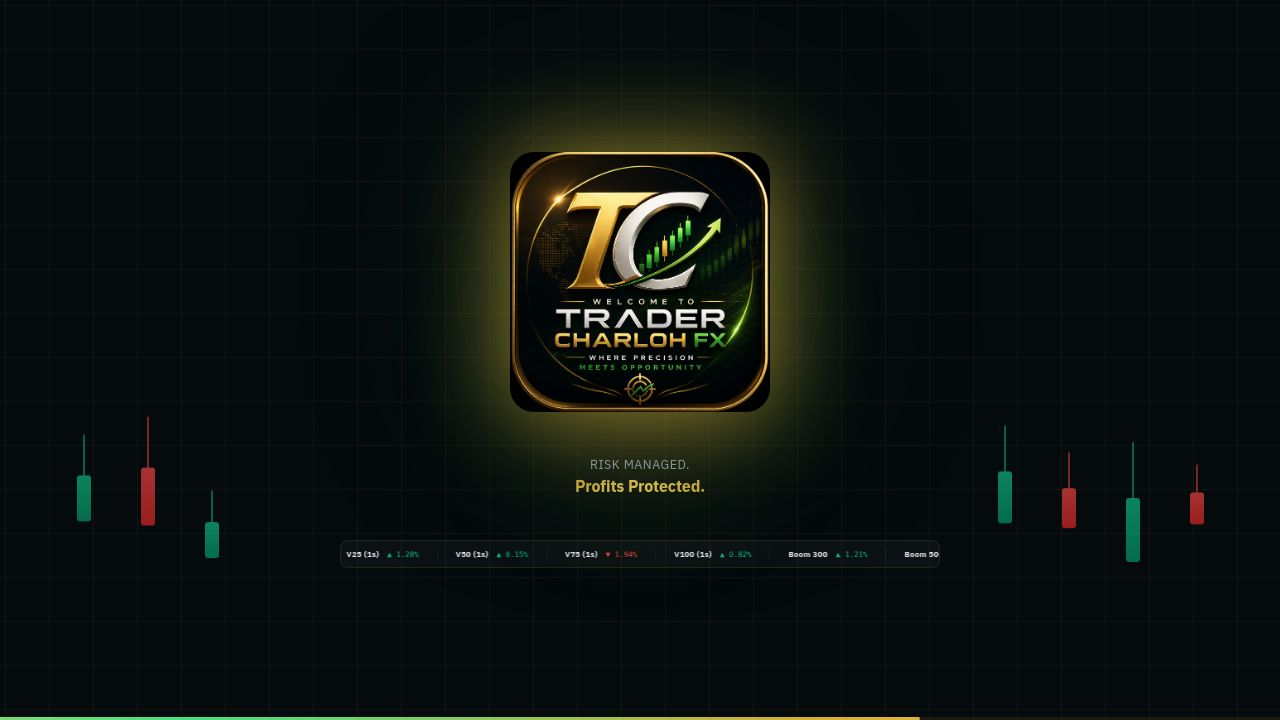
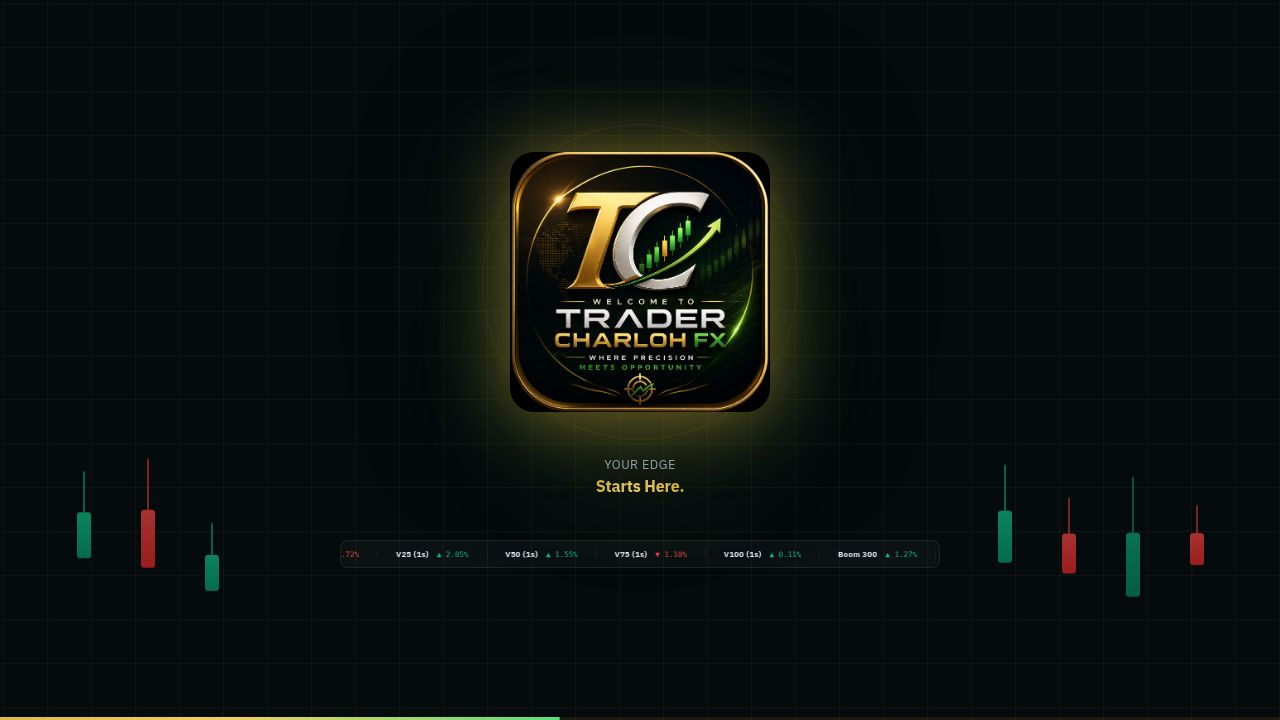
Push AI Signals panel close fix + Destroyer bot journal logging, deploy to production
Task #3: commit/push/deploy work that main agent's sandbox couldn't perform
directly (git push and deploy are blocked in the main-agent sandbox).

Changes (already implemented and validated by main agent, this task only
pushed and deployed them):
1. AiSignalOrb.tsx: AI Signals orb panel now closes via setOpen(false) when
   "Execute Trades" runs, alongside the existing setShowRunConfig(false).
2. Over_Destroyer_Bot.xml / Under_Destroyer_Bot.xml: added Journal-tab
   notify messages fired before each purchase (primary buy + loss-recovery
   buy), printing direction/barrier, a new "Symbol Label" variable, entry
   point, and last digit.
3. bot-patch.ts: added dest_symlabel_init textValue patch for both
   over-destroyer/under-destroyer so the printed Symbol Label reflects the
   live signal's volatility index name.

Work done in this task:
- Found changes were already committed locally as part of the pre-task
  checkpoint (commit 9b02bf7), no new commit needed.
- Force-pushed to GitHub (developercharloh/Deriv-site-new-api-charloh,
  main branch): e7e4501..9b02bf7.
- Built artifacts/deriv-site for production (npm run build), rebuilt
  .vercel/output/static from dist/, and deployed via
  `vercel deploy --prebuilt --prod` per the established recipe in
  .agents/memory/vercel-deploy-approach.md.
- Verified https://www.mrcharlohfx.site returns HTTP 200 after deploy.

No deviations from the task plan. Did not touch the failing api-server
[…]

diff --git a/artifacts/deriv-site/.vercel/output/static/index.html b/artifacts/deriv-site/.vercel/output/static/index.html
@@ -63,7 +63,7 @@
                 });
             })();
         </script>
-    <link rel="icon" href="/favicon.svg" type="image/svg+xml"><script defer src="/static/js/lib-react.68119ef6.js"></script><script defer src="/static/js/lib-router.f0602816.js"></script><script defer src="/static/js/225.8d6cbef9.js"></script><script defer src="/static/js/index.6e674c7c.js"></script><link href="/static/css/225.94640a0a.css" rel="stylesheet"><link href="/static/css/index.efd7c51d.css" rel="stylesheet"></head>
+    <link rel="icon" href="/favicon.svg" type="image/svg+xml"><script defer src="/static/js/lib-react.68119ef6.js"></script><script defer src="/static/js/lib-router.f0602816.js"></script><script defer src="/static/js/225.8d6cbef9.js"></script><script defer src="/static/js/index.6fb0ab7b.js"></script><link href="/static/css/225.94640a0a.css" rel="stylesheet"><link href="/static/css/index.efd7c51d.css" rel="stylesheet"></head>
 
     <body class="body theme theme--light">
         <!-- Google Tag Manager (noscript) -->

diff --git a/artifacts/deriv-site/.vercel/output/static/static/js/async/387.6ff18165.js b/artifacts/deriv-site/.vercel/output/static/static/js/async/387.6ff18165.js
@@ -1,0 +1,1 @@
+"use strict";(self.webpackChunk_workspace_deriv_site=self.webpackChunk_workspace_deriv_site||[]).push([["387"],{32318(e,t,n){n.d(t,{DT:()=>a,XC:()=>r,pZ:()=>m});let l={"matches-signal":"/bots/Matches_Signal_Bot.xml","differ-v2":"/bots/BINARYTOOL@_DIFFER_V2.0_(1)_(1)_1765711647662.xml","even-odd-scanner":"/bots/BINARYTOOL@EVEN_ODD_THUNDER_AI_PRO_BOT_1765711647662.xml","over-under-signal":"/bots/OverUnder_Signal_Bot.xml","elite-entry-scanner":"/bots/Elite_Entry_Scanner_Bot.xml","over-under-ai-signals":"/bots/Over_Under_AI_Signals_Bot.xml","over-destroyer":"/bots/Over_Destroyer_Bot.xml","under-destroyer":"/bots/Under_Destroyer_Bot.xml"};function r(e){return e.trim().toUpperCase().startsWith("UNDER")?"under-destroyer":"over-destroyer"}function a(e){let t=e.match(/\d+/);return t?parseInt(t[0],10):0}let o=new Map,u=new Map;async function i(e){let t=o.get(e);if(t)return t;let n=u.get(e);if(n)return n;let r=l[e];if(!r)throw Error(`Unknown bot id: ${e}`);let a=(async()=>{let t=await fetch(r);if(!t.ok)throw Error(`HTTP ${t.status} fetching bot XML (${r})`);let n=await t.text();return o.set(e,n),n})();u.set(e,a);try{return await a}finally{u.delete(e)}}async function m(e,t,n,l,r,o){let u=arguments.length>6&&void 0!==arguments[6]?arguments[6]:1,m=await i(e),c=function(e,t,n,l,r,o){let u=a(t.direction),i=a(t.entryPoint),m=Math.max(3,Math.min(10,Math.round(r/n)));switch(e){case"matches-signal":return[{blockId:"!BDtc{tIb5~vb#O@Ogky",numValue:u},{blockId:"Dww98I}prRuVxr_mn~}k",numValue:n},{blockId:"P@g)b:jeg|/F)mD8%X,w",numValue:n},{blockId:"t0b1vxY9xaXc@*IwT7C{",numValue:l},{blockId:"tuMdgDH=EiDY~j.b%n;]",numValue:m},{blockId:"zHWiC2`O-~qH2R`7]FaG",numValue:o},{blockId:"ep_matches_init",numValue:u}];case"differ-v2":return[{blockId:"%,Z?it?u3w,4)WTx2Hq:",numValue:n},{blockId:"/a.5Q3QDR2c)VR/XZvD-",numValue:u},{blockId:"ij(6Iu2cn[H}M;H3Y%9[",numValue:u},{blockId:"s;EQ~zMi)cPYPc-kzha`",numValue:o},{blockId:";N@3iS.2#]xK[5,E{gCO",numValue:l},{blockId:"h~GA!H78SVi}._e5N:ur",numValue:r}];case"even-odd-scanner":return[{blockId:"eo_dir_init",textValue:t.direction.trim().toUpperCase()},{blockId:"Wa]y_n3s-T4*h(bmYz+k",numValue:n},{blockId:"Z:R@MLC*=N3%meT)IuPt",numValue:r},{blockId:":Vn+w]Y.(QKzgKKENIfo",numValue:l},{blockId:"eo_ep_init_fixed",numValue:i}];case"over-under-signal":return[{blockId:"ou_dir_init",textValue:t.direction.split(" ")[0].toUpperCase()},{blockId:"ou_barrier_init",numValue:a(t.direction)},{blockId:"ou_stake_init",numValue:n},{blockId:"ou_initial_stake_init",numValue:n},{blockId:"ou_tp_init",numValue:l},{blockId:"ou_mart_level_init",numValue:m},{blockId:"ou_mart_init",numValue:o},{blockId:"ou_ep_init",numValue:a(t.entryPoint)}];case"over-under-ai-signals":{let e=a(t.direction),u=t.recoveryBarrier??e;return[{blockId:"ouai_pred1_init",numValue:e},{blockId:"ouai_pred2_init",numValue:u},{blockId:"ouai_ep_init",numValue:a(t.entryPoint)},{blockId:"ouai_stake_init",numValue:n},{blockId:"ouai_tp_init",numValue:l},{blockId:"ouai_sl_init",numValue:r},{blockId:"ouai_mart_init",numValue:o}]}case"elite-entry-scanner":{let e=a(t.direction),u=t.recoveryBarrier??e;return[{blockId:"4$5m(H*{`c4#S-)o=;aV",numValue:e},{blockId:"f;c!1^-bb9K7rQ{#3/l0",numValue:u},{blockId:"_aSBe^/).nS{bwLbiE9n",numValue:a(t.entryPoint)},{blockId:"y-?,og][*D.g)z`wz~sr",numValue:n},{blockId:"9.jN~btog59cUwf8:lPl",numValue:l},{blockId:"MpN0,W8A;joH2n#IXF@!",numValue:r},{blockId:":y8AYtv{x`8LFslg8@Pc",numValue:o}]}case"over-destroyer":{let e=a(t.direction),u=t.recoveryBarrier??e;return[{blockId:"Gg%p@Y?OHMC(yjmQxovG",numValue:e},{blockId:"b+#U5h8+OZ)rLx{!tpHW",numValue:u},{blockId:"dest_ep_init",numValue:a(t.entryPoint)},{blockId:"]~SrY@L1iu:F3H)e`G@.",numValue:n},{blockId:"p84`5MQ~#2$;K~tmMi/Z",numValue:n},{blockId:"m|-pU=u@u#bdSa{:i4`M",numValue:l},{blockId:"HhFFo1CV-bJ!l|0*]9xP",numValue:r},{blockId:"mFGMZRBBZt[SYAEOxi|F",numValue:o},{blockId:"dest_symlabel_init",textValue:t.symbolLabel}]}case"under-destroyer":{let e=a(t.direction),u=t.recoveryBarrier??e;return[{blockId:"Gg%p@Y?OHMC(yjmQxovG",numValue:e},{blockId:"b+#U5h8+OZ)rLx{!tpHW",numValue:u},{blockId:"dest_ep_init",numValue:a(t.entryPoint)},{blockId:"]~SrY@L1iu:F3H)e`G@.",numValue:n},{blockId:"p84`5MQ~#2$;K~tmMi/Z",numValue:n},{blockId:"m|-pU=u@u#bdSa{:i4`M",numValue:l},{blockId:"HhFFo1CV-bJ!l|0*]9xP",numValue:r},{blockId:"mFGMZRBBZt[SYAEOxi|F",numValue:o},{blockId:"dest_symlabel_init",textValue:t.symbolLabel}]}default:return[]}}(e,t,n,l,r,o),b=t.contractType,d=t.recoveryContractType??("DIGITUNDER"===b?"DIGITOVER":"DIGITOVER"===b?"DIGITUNDER":void 0),s=function(e,t,n,l,r,a){let o=new DOMParser().parseFromString(e,"text/xml");if(r){let e=o.getElementsByTagName("field");for(let t=0;t<e.length;t++)if("TYPE_LIST"===e[t].getAttribute("name")){e[t].textContent=r;break}}if(r||a){let e=new Set([":Nx^]Pu__xj[_w$h8*VZ","ouai_primary_buy"]),t=new Set(["zOCam5W}Z-j~)}t9XOPF","BvzdHe]!O+GD=E;c7NS6","ouai_recovery_buy"]),n=o.getElementsByTagName("block");for(let l=0;l<n.length;l++){let o,u=n[l].getAttribute("id")??"";if(e.has(u)&&r&&(o=r),t.has(u)&&a&&(o=a),!o)continue;let i=n[l].getElementsByTagName("field");for(let e=0;e<i.length;e++)"PURCHASE_LIST"===i[e].getAttribute("name")&&(i[e].textContent=o)}}let u=o.getElementsByTagName("field");for(let e=0;e<u.length;e++)if("SYMBOL_LIST"===u[e].getAttribute("name")){u[e].textContent=t;break}if("number"==typeof l&&l>=1){let e=Math.max(1,Math.min(10,Math.round(l))),t=new Set(["math_number","math_number_positive"]),n=o.getElementsByTagName("value");for(let l=0;l<n.length;l++){if("DURATION"!==n[l].getAttribute("name"))continue;let r=n[l];for(let n of["shadow","block"]){let l=r.getElementsByTagName(n);for(let n=0;n<l.length;n++){let r=l[n];if(!t.has(r.getAttribute("type")??""))continue;let a=r.getElementsByTagName("field");for(let t=0;t<a.length;t++)"NUM"===a[t].getAttribute("name")&&(a[t].textContent=String(e))}}let a=r.getElementsByTagName("block");for(let e=a.length-1;e>=0;e--){var i;null==(i=a[e].parentNode)||i.removeChild(a[e])}let u=o.createElement("block");u.setAttribute("type","math_number");let m=o.createElement("field");m.setAttribute("name","NUM"),m.textContent=String(e),u.appendChild(m),r.appendChild(u)}let r=o.getElementsByTagName("block");for(let n=0;n<r.length;n++){if("variables_set"!==r[n].getAttribute("type"))continue;let l=r[n].getElementsByTagName("field"),a=!1;for(let e=0;e<l.length;e++)if("VAR"===l[e].getAttribute("name")&&"duration"===(l[e].textContent??"").trim().toLowerCase()){a=!0;break}if(!a)continue;let o=r[n].getElementsByTagName("block");for(let n=0;n<o.length;n++){if(!t.has(o[n].getAttribute("type")??""))continue;let l=o[n].getElementsByTagName("field");for(let t=0;t<l.length;t++)"NUM"===l[t].getAttribute("name")&&(l[t].textContent=String(e));break}}}let m=o.getElementsByTagName("block");for(let e=0;e<m.length;e++){let t=m[e],l=t.getAttribute("id")??"",r=n.find(e=>e.blockId===l);if(!r)continue;let a=t.childNodes;for(let e=0;e<a.length;e++){let t=a[e];if(1!==t.nodeType||"VALUE"!==t.getAttribute("name"))continue;let n=t.getElementsByTagName("block");for(let e=0;e<n.length;e++){let t=n[e].getAttribute("type");if("math_number"===t&&void 0!==r.numValue){let t=n[e].getElementsByTagName("field");for(let e=0;e<t.length;e++)"NUM"===t[e].getAttribute("name")&&(t[e].textContent=String(r.numValue));break}if("text"===t&&void 0!==r.textValue){let t=n[e].getElementsByTagName("field");for(let e=0;e<t.length;e++)"TEXT"===t[e].getAttribute("name")&&(t[e].textContent=r.textValue);break}}break}}return o}(m,t.symbol,c,u,b,d);if(s.querySelector("parsererror"))throw Error("Bot XML parse error — check the bot file.");return s}}}]);

diff --git a/artifacts/deriv-site/.vercel/output/static/static/js/async/739.2749243a.js b/artifacts/deriv-site/.vercel/output/static/static/js/async/739.2749243a.js
@@ -1,0 +1,1 @@
+"use strict";(self.webpackChunk_workspace_deriv_site=self.webpackChunk_workspace_deriv_site||[]).push([["739"],{81726(e,s,a){a.r(s),a.d(s,{default:()=>x});var t=a(65723),n=a(22155),i=a(89158),l=a(21878),r=a(5375),o=a(61944),c=a(32318);let d="orb_destroyer_cfg",h={stake:"0.5",takeProfit:"10",stopLoss:"30",martingale:"1.5",martingaleOn:!0},p=l.BJ,m=function(e,s){let a=arguments.length>2&&void 0!==arguments[2]?arguments[2]:1.96;if(0===s)return 0;let t=e/s,n=a*a,i=a*Math.sqrt((t*(1-t)+n/(4*s))/s);return(t+n/(2*s)-i)/(1+n/s)};function _(e,s,a,t){let n,i,l=e.length,r=e.map(e=>{let a;return parseInt((a=e.toFixed(s))[a.length-1],10)}),o=Array(10).fill(0);for(let e of r)o[e]++;let c=o.map(e=>e/l),d="",h="",p=null,_=null,g=null,u=null,x=0;if("even_odd"===t){let e=r.filter(e=>e%2==0).length,s=l-e;e>=s?(d="EVEN",h="DIGITEVEN",x=e/l,n=e=>e%2==0):(d="ODD",h="DIGITODD",x=s/l,n=e=>e%2!=0)}else if("matches_differs"===t){let e=l/10,s=o.map(s=>(s-e)**2/e),a=0,t=0;for(let e=1;e<10;e++)o[e]>o[a]&&(a=e),o[e]<o[t]&&(t=e);s[a]>=s[t]?(p=a,d=`MATCHES ${a}`,h="DIGITMATCH",x=o[a]/l,n=e=>e===a):(p=t,d=`DIFFERS ${t}`,h="DIGITDIFF",x=1-o[t]/l,n=e=>e!==t)}else{let e=[];for(let s=1;s<=8;s++){let a=r.filter(e=>e>s).length/l,t=r.filter(e=>e<s).length/l;e.push({side:"OVER",b:s,prob:a,edge:a-(9-s)/10}),e.push({side:"UNDER",b:s,prob:t,edge:t-s/10})}e.sort((e,s)=>s.edge-e.edge||s.prob-e.prob);let s=e[0],a=e.filter(e=>e.side!==s.side)[0]??e[1]??s;p=s.b,_=a.b,g="OVER"===a.side?"DIGITOVER":"DIGITUNDER",u=`${a.side} ${a.b}`,d=`${s.side} ${s.b}`,h="OVER"===s.side?"DIGITOVER":"DIGITUNDER",x=s.prob,n=e=>"OVER"===s.side?e>s.b:e<s.b}let v=Array(10).fill(null).map(()=>({wins:0,total:0}));for(let e=0;e<r.length-1;e++)v[r[e]].total++,n(r[e+1])&&v[r[e]].wins++;let j=Math.max(50,Math.floor(l/50)),b=v.map((e,s)=>({digit:s,conditional:e.total>0?e.wins/e.total:0,lowerBound:m(e.wins,e.total),total:e.total})).filter(e=>e.total>=j&&e.lowerBound>=x+.02).sort((e,s)=>s.lowerBound-e.lowerBound||s.conditional-e.conditional).slice(0,2);if(b.length<2){let e=new Set(b.map(e=>e.digit)),s=v.map((e,s)=>({digit:s,conditional:e.total>0?e.wins/e.total:0,lowerBound:m(e.wins,e.total),total:e.total})).filter(s=>!e.has(s.digit)&&s.total>=j).sort((e,s)=>s.lowerBound-e.lowerBound||s.conditional-e.conditional);for(;b.length<2&&s.length>0;)b.push(s.shift())}for(;b.length<2;){let e=new Set(b.map(e=>e.digit)),s=c.map((e,s)=>({digit:s,conditional:e,lowerBound:0,total:0})).filter(s=>!e.has(s.digit)).sort((e,s)=>s.conditional-e.conditional)[0];if(!s)break;b.push(s)}let f=b.map((e,s)=>({digit:e.digit,recommended:0===s,conditional:e.conditional}));if("even_odd"===t){let e=(x-.5)/Math.sqrt(.25/l);i={name:"Stat. Significance",vote:Math.abs(e)>=1.65&&x>=.51,score:Math.min(1,Math.abs(e)/4)}}else{let e=l/10,s=o.reduce((s,a)=>s+(a-e)**2/e,0);i={name:"Stat. Significance",vote:s>=16.92&&x>=.62,score:Math.min(1,s/30)}}let N=f[0],y={name:"Bayesian",vote:!!N&&N.conditional>=x+.05,score:N?Math.min(1,Math.max(0,(N.conditional-x)/.2)):0},k=Math.floor(.1*l),w=Math.floor(.3*l),S=Math.floor(.6*l),M=r.slice(-k).filter(n).length/k,C=r.slice(-(k+w),-k).filter(n).length/w,E=r.slice(-(k+w+S),-(k+w)).filter(n).length/S,$={name:"3-Window Trend",vote:M>=x-.01&&C>=x-.02&&E>=x-.03&&M>=C-.03,score:Math.min(1,Math.max(0,(M-x+(C-x)+(E-x)+.06)/.18))},D=Math.floor(l/5),L="even_odd"===t?.5:.6,B=0;for(let e=0;e<5;e++)r.slice(e*D,(e+1)*D).filter(n).length/D>=L&&B++;let R={name:"Stability",vote:B>=("even_odd"===t?3:4),score:B/5},O=r.slice(-100),I=r.slice(-500),T=O.filter(n).length/O.length,A=I.filter(n).length/I.length,P="even_odd"===t?.51:.6,F={name:"Recent Edge",vote:T>=("even_odd"===t?.52:.61)&&A>=P&&T>=A-.05,score:Math.min(1,Math.max(0,(Math.min(T,A)-(P-.05))/.15))},V=new Map;for(let e=0;e<r.length-2;e++){let s=`${r[e]},${r[e+1]}`;V.has(s)||V.set(s,{wins:0,total:0});let a=V.get(s);a.total++,n(r[e+2])&&a.wins++}let W=`${r[r.length-2]},${r[r.length-1]}`,G=V.get(W)??{wins:0,total:0},z=G.total>=20?G.wins/G.total:x,U={name:"Markov-2 Chain",vote:G.total>=20&&z>=x+.03,score:Math.min(1,Math.max(0,(z-x+.05)/.15))},X=Math.floor(l/10),q=Array.from({length:10},(e,s)=>{let a=r.slice(s*X,(s+1)*X);return a.length>0?a.filter(n).length/a.length:x}),J=q.length,H=(J-1)/2,Y=q.reduce((e,s)=>e+s,0)/J,K=0,Q=0;q.forEach((e,s)=>{K+=(s-H)*(e-Y),Q+=(s-H)**2});let Z=Q>0?K/Q:0,ee={name:"Linear Trend",vote:Z>=-.001&&q[J-1]>=x-.02,score:Math.min(1,Math.max(0,(Z+.005)/.015))},es=c.reduce((e,s)=>e+(s>0?-s*Math.log2(s):0),0)/Math.log2(10),ea={name:"Entropy Guard",vote:es>=.8&&es<=.99&&x>=("even_odd"===t?.51:.6),score:Math.min(1,Math.max(0,1-Math.abs(es-.88)/.12))},et=new Map;for(let e=0;e<r.length-4;e++){let s=r.slice(e,e+4).join(",");et.has(s)||et.set(s,{wins:0,total:0});let a=et.get(s);a.total++,n(r[e+4])&&a.wins++}let en=r.slice(-4).join(","),ei=et.get(en)??{wins:0,total:0},el=ei.total>=10?ei.wins/ei.total:x,er={name:"N-Gram Memory",vote:ei.total>=10&&el>=x+.02,score:Math.min(1,Math.max(0,(el-x+.04)/.12))},eo=Math.floor(l/4),ec="even_odd"===t?.5:.58,ed=Array.from({length:4},(e,s)=>r.slice(s*eo,(s+1)*eo).filter(n).length/eo),eh={name:"Quartile Persistence",vote:ed.every(e=>e>=ec),score:ed.filter(e=>e>=ec).length/4},ep=[i,y,$,R,F,U,ee,ea,er,eh].filter(e=>e.vote).length,em=i.score+y.score+$.score+R.score+F.score+U.score+ee.score+ea.score+er.score+eh.score,e_={chiSquared:i,bayesian:y,momentum:$,stability:R,recentEdge:F,markov:U,linearTrend:ee,entropy:ea,ngram:er,quartile:eh,yesCount:ep,totalScore:em};return{sym:a,direction:d,contractType:h,barrier:p,recoveryBarrier:_,recoveryContractType:g,recoveryDirection:u,winProb:x,sampleSize:l,votes:e_,entryDigits:f,segmentAgrees:!0,signalStrength:Math.round(em/10*100)}}async function g(e,s){return new Promise(a=>{let t=new WebSocket("wss://ws.derivws.com/websockets/v3?app_id=1"),n=new Map,i=0,l=!1,r=()=>{if(l)return;l=!0,t.onopen=t.onmessage=t.onerror=t.onclose=null;try{t.close()}catch{}let s=[];n.forEach(a=>{let{prices:t,pip:n,sym:i}=a;if(t.length<100)return;let l=_(t,n,i,e);if(t.length>=1600){let s=_(t.slice(-1500),n,i,e);l.segmentAgrees=s.direction===l.direction&&s.votes.yesCount>=4}s.push(l)}),s.sort((e,s)=>s.votes.yesCount-e.votes.yesCount||s.votes.totalScore-e.votes.totalScore||s.winProb-e.winProb);let i=s.find(s=>{var a;return s.votes.yesCount>=((a=s.sym.code).includes("75")||a.includes("100")?7:a.endsWith("10V")||a.endsWith("25V")||a.includes("_10")||a.includes("_25")?5:6)&&s.segmentAgrees&&s.votes.recentEdge.vote&&("over_under"!==e||s.winProb>=.6)})??null;a({best:i,noVotesBest:i?null:s[0]??null,allResults:s})};t.onopen=()=>{p.forEach((e,s)=>setTimeout(()=>{t.readyState===WebSocket.OPEN&&t.send(JSON.stringify({ticks_history:e.code,count:1e3,end:"latest",style:"ticks",req_id:s+1}))},80*s))},t.onmessage=e=>{var a;let t;try{t=JSON.parse(e.data)}catch{return}if("history"!==t.msg_type)return;let l=t.req_id,o=p[l-1];o&&(n.set(l,{prices:(null==(a=t.history)?void 0:a.prices)??[],pip:t.pip_size??2,sym:o}),s(++i),i>=p.length&&r())},t.onerror=()=>r(),t.onclose=()=>{l||r()},setTimeout(()=>{l||r()},3e4)})}let u=e=>e>=9?"#10b981":e>=7?"#6366f1":e>=5?"#f59e0b":"#ef4444",x=()=>{var e;let s,[a,l]=(0,n.useState)(!1),[m,_]=(0,n.useState)({x:0,y:0}),x=(0,n.useRef)({active:!1,startX:0,startY:0,initX:0,initY:0,moved:!1}),v=(0,n.useRef)(null),[j,b]=(0,n.useState)(!1),[f,N]=(0,n.useState)("over_under"),[y,k]=(0,n.useState)("idle"),[w,S]=(0,n.useState)(0),[M,C]=(0,n.useState)(null),[E,$]=(0,n.useState)(null),[D,L]=(0,n.useState)(!1),[B,R]=(0,n.useState)("OVER"),[O,I]=(0,n.useState)(5),[T,A]=(0,n.useState)(null),[P,F]=(0,n.useState)("MATCHES"),[V,W]=(0,n.useState)(0),[G,z]=(0,n.useState)(0),[U,X]=(0,n.useState)(0),q=(0,r.Pj)(),[J,H]=(0,n.useState)("idle"),[Y,K]=(0,n.useState)(""),[Q,Z]=(0,n.useState)(!1),[ee,es]=(0,n.useState)(h.stake),[ea,et]=(0,n.useState)(h.takeProfit),[en,ei]=(0,n.useState)(h.stopLoss),[el,er]=(0,n.useState)(h.martingale),[eo,ec]=(0,n.useState)(h.martingaleOn),[ed,eh]=(0,n.useState)(()=>{try{return JSON.parse(localStorage.getItem("orb-signal-history")??"[]")}catch{return[]}});(0,n.useEffect)(()=>{var e;if(M){if("over_under"===f)R(M.direction.split(" ")[0]??"OVER"),I(M.barrier??5),A(M.recoveryBarrier);else if("matches_differs"===f){let e=M.direction.split(" ");F(e[0]??"MATCHES"),W(Number(e[1])||0)}else R(M.direction??"EVEN");X((null==(e=M.entryDigits[0])?void 0:e.digit)??0),L(!0)}},[M,f]),(0,n.useEffect)(()=>{C(null),$(null),k("idle"),L(!1),H("idle"),K("")},[f]);let ep=(0,n.useCallback)(e=>{if(0!==e.button)return;let s=v.current;if(!s)return;let a=s.getBoundingClientRect();x.current={active:!0,startX:e.clientX,startY:e.clientY,initX:a.left,initY:a.top,moved:!1},s.setPointerCapture(e.pointerId)},[]),em=(0,n.useCallback)(e=>{if(!x.current.active)return;let s=e.clientX-x.current.startX,a=e.clientY-x.current.startY;!x.current.moved&&Math.sqrt(s*s+a*a)>5&&(x.current.moved=!0,l(!0)),x.current.moved&&_({x:Math.max(0,Math.min(window.innerWidth-64,x.current.initX+s)),y:Math.max(0,Math.min(window.innerHeight-64,x.current.initY+a))})},[]),e_=(0,n.useCallback)(e=>{var s;x.current.active&&(x.current.active=!1,x.current.moved||b(e=>!e),null==(s=v.current)||s.releasePointerCapture(e.pointerId))},[]),eg=(0,n.useCallback)(async()=>{k("scanning"),S(0),C(null),$(null),L(!1),z(0);try{let{best:e,noVotesBest:s}=await g(f,e=>S(e));if(e){C(e),k("done");try{let s={market:e.sym.short,direction:e.direction,votes:e.votes.yesCount,strength:e.signalStrength,time:Date.now()},a=JSON.parse(localStorage.getItem("orb-signal-history")??"[]"),t=[s,...a].slice(0,5);localStorage.setItem("orb-signal-history",JSON.stringify(t)),eh(t)}catch{}}else $(s),k("no-signal")}catch{k("idle")}},[f]),eu=(0,n.useCallback)(()=>{if(!M)return;let e=h;try{let s=localStorage.getItem(d);s&&(e={...h,...JSON.parse(s)})}catch{}es(e.stake),et(e.takeProfit),ei(e.stopLoss),er(e.martingale),ec(e.martingaleOn),H("idle"),K(""),Z(!0)},[M]),ex=(0,n.useCallback)(async()=>{if(M){H("launching"),K("");try{let e,s;try{localStorage.setItem(d,JSON.stringify({stake:ee,takeProfit:ea,stopLoss:en,martingale:el,martingaleOn:eo}))}catch{}"over_under"===f?(e=`${B} ${O}`,s=(0,c.XC)(e)):"matches_differs"===f?(e=`${P} ${V}`,s="DIFFERS"===P?"differ-v2":"matches-signal"):(e=B,s="even-odd-scanner");let a={symbol:M.sym.code,symbolLabel:M.sym.label,direction:e,entryPoint:`Digit ${U}`,confidence:M.signalStrength,market:f,recoveryBarrier:"over_under"===f?T??M.recoveryBarrier??O:void 0},t=parseFloat(ee)||.5,n=parseFloat(ea)||10,i=parseFloat(en)||30,l=eo?parseFloat(el)||1.5:0,r=await (0,c.pZ)(s,a,t,n,i,l),h=new XMLSerializer().serializeToString(r.documentElement),p=window.Blockly;if(!(null==p?void 0:p.derivWorkspace))return void H("no-ws");let m=p.utils.xml.textToDom(h);p.Xml.clearWorkspaceAndLoadFromXml(m,p.derivWorkspace),p.derivWorkspace.cleanUp(),p.derivWorkspace.clearUndo(),q.dashboard.setActiveTab(o.HL.BOT_BUILDER),setTimeout(()=>{q.run_panel.is_running||q.run_panel.onRunButtonClick(),H("idle"),Z(!1),b(!1)},500)}catch(e){H("error"),K((null==e?void 0:e.message)||"Failed to launch bot.")}}},[M,f,B,O,T,P,V,U,ee,ea,en,el,eo,q]),ev=a?{position:"fixed",left:m.x,top:m.y,bottom:"auto",right:"auto"}:{position:"fixed",right:24,bottom:80},ej=a?{position:"fixed",left:Math.max(8,m.x-320),top:Math.max(8,m.y-560),bottom:"auto"}:{position:"fixed",right:16,bottom:156},eb=M?u(M.votes.yesCount):"#6366f1",ef=M?(e=M.votes.yesCount,Math.max(2,Math.min(e>=9?8:e>=7?12:19,Math.round(1.5/Math.max(.02,M.winProb-.5))))):5,eN=G>=ef,ey="over_under"===f?"UNDER"===B?"Under Destroyer":"Over Destroyer":"matches_differs"===f?"DIFFERS"===P?"Differ V2":"Matches":"Even Odd Scanner",ek=M?[M.votes.chiSquared,M.votes.bayesian,M.votes.momentum,M.votes.stability,M.votes.recentEdge,M.votes.markov,M.votes.linearTrend,M.votes.entropy,M.votes.ngram,M.votes.quartile]:[];return(0,t.jsxs)(t.Fragment,{children:[(0,t.jsxs)("div",{ref:v,className:`ai-orb${j?" ai-orb--open":""}${D&&!j?" ai-orb--signal":""}`,style:ev,onPointerDown:ep,onPointerMove:em,onPointerUp:e_,children:[(0,t.jsx)("div",{className:"ai-orb__ring"}),(0,t.jsx)("div",{className:"ai-orb__glow"}),(0,t.jsxs)("div",{className:"ai-orb__btn",children:[(0,t.jsx)("div",{className:"ai-orb__inner-glow"}),(0,t.jsx)(i.Kq,{size:24,className:"ai-orb__icon"}),(0,t.jsx)("span",{className:"ai-orb__label",children:"AI"})]}),"scanning"===y&&(0,t.jsx)("div",{className:"ai-orb__prog-ring",children:(0,t.jsxs)("svg",{viewBox:"0 0 36 36",className:"ai-orb__ring-svg",children:[(0,t.jsx)("circle",{cx:"18",cy:"18",r:"15",fill:"none",stroke:"rgba(99,102,241,0.15)",strokeWidth:"2.5"}),(0,t.jsx)("circle",{cx:"18",cy:"18",r:"15",fill:"none",stroke:"url(#orbGrad)",strokeWidth:"2.5",strokeLinecap:"round",strokeDasharray:`${w/p.length*94} 94`,strokeDashoffset:"23.5",transform:"rotate(-90 18 18)"}),(0,t.jsx)("defs",{children:(0,t.jsxs)("linearGradient",{id:"orbGrad",x1:"0",y1:"0",x2:"1",y2:"1",children:[(0,t.jsx)("stop",{offset:"0%",stopColor:"#818cf8"}),(0,t.jsx)("stop",{offset:"100%",stopColor:"#ec4899"})]})})]})}),D&&!j&&(0,t.jsx)("span",{className:"ai-orb__badge"})]}),j&&(0,t.jsxs)("div",{className:"ai-panel",style:ej,onClick:e=>e.stopPropagation(),children:[(0,t.jsxs)("div",{className:"ai-panel__hd",children:[(0,t.jsxs)("div",{className:"ai-panel__hd-left",children:[(0,t.jsx)("div",{className:"ai-panel__hd-icon",children:(0,t.jsx)(i.Kq,{size:13})}),(0,t.jsxs)("div",{children:[(0,t.jsx)("span",{className:"ai-panel__title",children:"AI Signals"}),(0,t.jsx)("span",{className:"ai-panel__subtitle",children:"10-Model Consensus Scanner"})]})]}),(0,t.jsx)("button",{className:"ai-panel__close",onClick:()=>b(!1),children:(0,t.jsx)(i.X,{size:13})})]}),(0,t.jsx)("div",{className:"ai-panel__type-row",children:[{t:"over_under",icon:"\uD83D\uDCC8",label:"Over / Under"},{t:"even_odd",icon:"⚖️",label:"Even / Odd"},{t:"matches_differs",icon:"\uD83C\uDFAF",label:"Matches / Differs"}].map(e=>{let{t:s,icon:a,label:n}=e;return(0,t.jsxs)("button",{className:`ai-panel__type-btn${f===s?" ai-panel__type-btn--active":""}`,onClick:()=>N(s),children:[(0,t.jsx)("span",{className:"ai-panel__type-icon",children:a}),n]},s)})}),(0,t.jsx)("div",{className:"ai-panel__scan-wrap",children:(0,t.jsx)("button",{className:`ai-panel__scan-btn${"scanning"===y?" ai-panel__scan-btn--loading":""}`,onClick:eg,disabled:"scanning"===y,children:"scanning"===y?(0,t.jsxs)(t.Fragment,{children:[(0,t.jsx)(i.kr,{size:14,className:"ai-panel__spin"}),(0,t.jsxs)("span",{children:["Scanning ",w,"/",p.length," markets…"]})]}):(0,t.jsxs)(t.Fragment,{children:[(0,t.jsx)(i.e9,{size:14}),(0,t.jsx)("span",{children:"idle"===y?"Scan All 10 Markets":"Re-Scan Markets"})]})})}),"scanning"===y&&(0,t.jsx)("div",{className:"ai-panel__dots",children:p.map((e,s)=>(0,t.jsx)("span",{className:`ai-panel__dot${s<w?" ai-panel__dot--done":" ai-panel__dot--wait"}`,title:e.short},e.code))}),"no-signal"===y&&(0,t.jsxs)("div",{className:"ai-panel__nosig",children:[(0,t.jsxs)("div",{className:"ai-panel__nosig-hd",children:[(0,t.jsx)("span",{className:"ai-panel__nosig-icon",children:"⚠️"}),(0,t.jsx)("span",{className:"ai-panel__nosig-txt",children:"No strong signal found"})]}),E&&(0,t.jsxs)("div",{className:"ai-panel__nosig-best",children:[(0,t.jsxs)("span",{children:["Best: ",(0,t.jsx)("strong",{children:E.sym.short})]}),(0,t.jsxs)("span",{className:"ai-panel__nosig-votes",style:{color:u(E.votes.yesCount)},children:[E.votes.yesCount,"/10 votes"]}),(0,t.jsxs)("span",{className:"ai-panel__nosig-need",children:["(need ",6,"/10)"]})]}),(0,t.jsx)("span",{className:"ai-panel__nosig-hint",children:"Try again in a few minutes or switch trade type."})]}),"done"===y&&M&&(0,t.jsxs)("div",{className:"ai-panel__result",children:[(0,t.jsxs)("div",{className:"ai-panel__mkt",style:{"--vc":eb},children:[(0,t.jsxs)("div",{className:"ai-panel__mkt-left",children:[(0,t.jsx)("span",{className:"ai-panel__mkt-short",children:M.sym.short}),(0,t.jsx)("span",{className:"ai-panel__mkt-label",children:M.sym.label}),(0,t.jsxs)("span",{className:"ai-panel__mkt-samples",children:[(M.sampleSize/1e3).toFixed(1),"k ticks analysed"]})]}),(0,t.jsx)("div",{className:"ai-panel__mkt-right",children:(0,t.jsxs)("div",{className:"ai-panel__strength-badge",style:{background:`${eb}18`,borderColor:`${eb}50`,color:eb},children:[(0,t.jsxs)("span",{className:"ai-panel__strength-votes",children:[M.votes.yesCount,"/10"]}),(0,t.jsx)("span",{className:"ai-panel__strength-label",children:(s=M.votes.yesCount)>=10?"UNANIMOUS":s>=9?"STRONG":s>=8?"SOLID":s>=7?"GOOD":s>=5?"FAIR":"WEAK"})]})})]}),(0,t.jsxs)("div",{className:"ai-panel__call",style:{borderColor:`${eb}40`},children:[(0,t.jsx)("span",{className:"ai-panel__call-lbl",children:"Signal Direction"}),(0,t.jsx)("span",{className:"ai-panel__call-val",style:{color:eb},children:M.direction})]}),(0,t.jsxs)("div",{className:"ai-panel__prob-row",children:[(0,t.jsx)("span",{className:"ai-panel__prob-lbl",children:"Win Probability"}),(0,t.jsxs)("span",{className:"ai-panel__prob-val",style:{color:eb},children:[(100*M.winProb).toFixed(1),"%"]})]}),(0,t.jsxs)("div",{className:"ai-panel__prob-bar",children:[(0,t.jsx)("div",{className:"ai-panel__prob-fill",style:{width:`${100*M.winProb}%`,background:`linear-gradient(90deg, ${eb}88, ${eb})`}}),(0,t.jsx)("div",{className:"ai-panel__prob-mid"})]}),(0,t.jsxs)("div",{className:"ai-panel__models",children:[(0,t.jsxs)("span",{className:"ai-panel__section-lbl",children:["Model Consensus — ",M.votes.yesCount,"/10 \xa0\xb7\xa0Strength: ",(0,t.jsxs)("strong",{style:{color:eb},children:[M.signalStrength,"%"]}),"\xa0\xb7\xa0Segment: ",(0,t.jsx)("strong",{style:{color:M.segmentAgrees?"#22c55e":"#ef4444"},children:"✓"})]}),(0,t.jsx)("div",{className:"ai-panel__model-grid",children:ek.map(e=>(0,t.jsxs)("div",{className:`ai-panel__model-chip${e.vote?" ai-panel__model-chip--yes":" ai-panel__model-chip--no"}`,children:[(0,t.jsx)("span",{className:"ai-panel__model-chip-icon",children:e.vote?"✓":"✗"}),(0,t.jsx)("span",{className:"ai-panel__model-chip-name",children:e.name})]},e.name))})]}),(0,t.jsxs)("div",{className:"ai-panel__pred",children:[(0,t.jsx)("span",{className:"ai-panel__section-lbl",children:"Prediction"}),"even_odd"===f?(0,t.jsx)("div",{className:"ai-panel__seg",children:["EVEN","ODD"].map(e=>(0,t.jsx)("button",{className:`ai-panel__seg-btn${B===e?" ai-panel__seg-btn--active":""}`,onClick:()=>R(e),children:e},e))}):"matches_differs"===f?(0,t.jsxs)("div",{className:"ai-panel__pred-md",children:[(0,t.jsx)("div",{className:"ai-panel__seg",style:{marginBottom:8},children:["MATCHES","DIFFERS"].map(e=>(0,t.jsx)("button",{className:`ai-panel__seg-btn${P===e?" ai-panel__seg-btn--active":""}`,onClick:()=>F(e),children:e},e))}),(0,t.jsxs)("div",{className:"ai-panel__barrier",children:[(0,t.jsxs)("span",{className:"ai-panel__barrier-lbl",children:["Target digit ",(0,t.jsxs)("span",{className:"ai-panel__barrier-rec",children:["(AI: ",M.barrier??"?","★)"]})]}),(0,t.jsx)("div",{className:"ai-panel__barrier-grid ai-panel__barrier-grid--10",children:[0,1,2,3,4,5,6,7,8,9].map(e=>(0,t.jsx)("button",{className:`ai-panel__barrier-btn${V===e?" ai-panel__barrier-btn--sel":""}${M.barrier===e?" ai-panel__barrier-btn--rec":""}`,onClick:()=>W(e),children:e},e))})]})]}):(0,t.jsxs)("div",{className:"ai-panel__pred-ou",children:[(0,t.jsx)("div",{className:"ai-panel__seg",style:{marginBottom:8},children:["OVER","UNDER"].map(e=>(0,t.jsx)("button",{className:`ai-panel__seg-btn${B===e?" ai-panel__seg-btn--active":""}`,onClick:()=>R(e),children:e},e))}),(0,t.jsxs)("div",{className:"ai-panel__barrier",children:[(0,t.jsxs)("span",{className:"ai-panel__barrier-lbl",children:["Barrier ",(0,t.jsxs)("span",{className:"ai-panel__barrier-rec",children:["(AI: ",M.barrier??"?","★)"]})]}),(0,t.jsx)("div",{className:"ai-panel__barrier-grid",children:[1,2,3,4,5,6,7,8].map(e=>(0,t.jsx)("button",{className:`ai-panel__barrier-btn${O===e?" ai-panel__barrier-btn--sel":""}${M.barrier===e?" ai-panel__barrier-btn--rec":""}`,onClick:()=>I(e),children:e},e))})]}),"over_under"===f&&(0,t.jsxs)("div",{className:"ai-panel__recovery",children:[(0,t.jsxs)("div",{className:"ai-panel__recovery-hd",children:[(0,t.jsx)("span",{className:"ai-panel__recovery-icon",children:"\uD83D\uDD04"}),(0,t.jsx)("span",{className:"ai-panel__recovery-lbl",children:"Recovery barrier (after loss)"}),null!==M.recoveryBarrier&&(0,t.jsxs)("span",{className:"ai-panel__recovery-rec",children:["AI: ",M.recoveryDirection??("OVER"===B?`UNDER ${M.recoveryBarrier}`:`OVER ${M.recoveryBarrier}`)," ★"]})]}),(0,t.jsx)("select",{className:"ai-panel__recovery-select",value:T??M.recoveryBarrier??"",onChange:e=>A(Number(e.target.value)),children:"OVER"===B?[8,7,6,5,4,3,2,1].map(e=>(0,t.jsxs)("option",{value:e,children:["UNDER ",e,M.recoveryBarrier===e?" ★ Recommended":""]},e)):[0,1,2,3,4,5,6,7,8].map(e=>(0,t.jsxs)("option",{value:e,children:["OVER ",e,M.recoveryBarrier===e?" ★ Recommended":""]},e))})]})]})]}),M.entryDigits.length>0&&(0,t.jsxs)("div",{className:"ai-panel__entries",children:[(0,t.jsxs)("span",{className:"ai-panel__section-lbl",children:["Entry Points (last digit before trade)",(0,t.jsx)("em",{className:"ai-panel__section-hint",children:" — tap to select"})]}),(0,t.jsx)("div",{className:"ai-panel__entry-grid",children:M.entryDigits.slice(0,2).map((e,s)=>{let a=U===e.digit;return(0,t.jsxs)("div",{className:`ai-panel__entry-card${0===s?" ai-panel__entry-card--rec":""}${a?" ai-panel__entry-card--selected":""}`,role:"button",style:{cursor:"pointer",outline:a?`2px solid ${eb}`:"none"},onClick:()=>X(e.digit),children:[(0,t.jsx)("div",{className:"ai-panel__entry-digit",style:{color:0===s?eb:"#e2e8f0"},children:e.digit}),(0,t.jsxs)("div",{className:"ai-panel__entry-meta",children:[(0,t.jsx)("span",{className:"ai-panel__entry-tag",children:0===s?"★ Recommended":"◎ Alternate"}),(0,t.jsxs)("span",{className:"ai-panel__entry-pct",style:{color:0===s?eb:"#94a3b8"},children:[(100*e.conditional).toFixed(1),"%"]})]})]},e.digit)})})]}),(0,t.jsxs)("div",{className:`ai-panel__session${eN?" ai-panel__session--over":""}`,children:[(0,t.jsxs)("div",{className:"ai-panel__session-top",children:[(0,t.jsxs)("div",{className:"ai-panel__session-left",children:[(0,t.jsx)("span",{className:"ai-panel__session-icon",children:"\uD83C\uDFAF"}),(0,t.jsxs)("div",{children:[(0,t.jsx)("span",{className:"ai-panel__session-title",children:"Session Limit"}),(0,t.jsx)("span",{className:"ai-panel__session-sub",children:"Max contracts recommended"})]})]}),(0,t.jsx)("div",{className:"ai-panel__session-num",style:{color:eN?"#ef4444":"#10b981"},children:ef})]}),(0,t.jsx)("div",{className:"ai-panel__session-bar-track",children:(0,t.jsx)("div",{className:"ai-panel__session-bar-fill",style:{width:`${Math.min(100,G/ef*100)}%`,background:eN?"linear-gradient(90deg,#ef444499,#ef4444)":G>=.75*ef?"linear-gradient(90deg,#f59e0b99,#f59e0b)":"linear-gradient(90deg,#10b98199,#10b981)"}})}),(0,t.jsxs)("div",{className:"ai-panel__session-counter",children:[(0,t.jsxs)("div",{className:"ai-panel__session-tally",children:[(0,t.jsx)("button",{className:"ai-panel__session-adj",onClick:()=>z(e=>Math.max(0,e-1)),children:"−"}),(0,t.jsxs)("span",{className:"ai-panel__session-count",children:[(0,t.jsx)("span",{style:{color:eN?"#ef4444":"#e2e8f0"},children:G}),(0,t.jsxs)("span",{className:"ai-panel__session-of",children:["/ ",ef]})]}),(0,t.jsx)("button",{className:"ai-panel__session-adj",onClick:()=>z(e=>e+1),children:"+"}),(0,t.jsx)("button",{className:"ai-panel__session-reset",onClick:()=>z(0),title:"Reset counter",children:"↺"})]}),(0,t.jsx)("span",{className:"ai-panel__session-trades-lbl",children:"contracts run"})]}),eN&&(0,t.jsx)("div",{className:"ai-panel__session-warn",children:"\uD83D\uDED1 Limit reached — stop trading this session"}),!eN&&G>=Math.ceil(.75*ef)&&(0,t.jsx)("div",{className:"ai-panel__session-caution",children:"⚠️ Approaching limit — consider stopping soon"}),0===G&&(0,t.jsx)("div",{className:"ai-panel__session-hint",children:"Tap + after each contract \xb7 tap ↺ to reset"})]}),ed.length>0&&(0,t.jsxs)("div",{className:"ai-panel__history",children:[(0,t.jsx)("span",{className:"ai-panel__section-lbl",children:"Recent Signals"}),ed.map((e,s)=>(0,t.jsxs)("div",{className:"ai-panel__history-row",children:[(0,t.jsx)("span",{className:"ai-panel__history-market",children:e.market}),(0,t.jsx)("span",{className:"ai-panel__history-dir",children:e.direction}),(0,t.jsxs)("span",{className:"ai-panel__history-votes",children:[e.votes,"/10"]}),(0,t.jsxs)("span",{className:"ai-panel__history-str",children:[e.strength,"%"]}),(0,t.jsx)("span",{className:"ai-panel__history-time",children:new Date(e.time).toLocaleTimeString([],{hour:"2-digit",minute:"2-digit"})})]},s))]}),(0,t.jsxs)("div",{className:"ai-panel__run-cta",children:[(0,t.jsxs)("button",{className:"ai-panel__run-btn",disabled:"launching"===J,onClick:eu,children:[(0,t.jsx)(i.N3,{size:16})," Save & Run on ",ey]}),(0,t.jsx)("span",{className:"ai-panel__run-hint",children:"over_under"===f?`Saves market, barrier ${O}, recovery ${T??O}, entry digit ${U} and volatility into the bot, then lets you set stake/profit/loss/martingale before running it.`:"matches_differs"===f?`Saves market, ${P.toLowerCase()} digit ${V}, entry digit ${U} and volatility into the bot, then lets you set stake/profit/loss/martingale before running it.`:`Saves market, ${B.toLowerCase()} prediction, entry digit ${U} and volatility into the bot, then lets you set stake/profit/loss/martingale before running it.`})]})]})]}),Q&&(0,t.jsx)("div",{className:"ai-runcfg__overlay",onClick:()=>"launching"!==J&&Z(!1),children:(0,t.jsxs)("div",{className:"ai-runcfg",onClick:e=>e.stopPropagation(),children:[(0,t.jsxs)("div",{className:"ai-runcfg__header",children:[(0,t.jsx)("span",{children:"Set Trade Parameters"}),(0,t.jsx)("button",{className:"ai-runcfg__close",disabled:"launching"===J,onClick:()=>Z(!1),children:(0,t.jsx)(i.X,{size:16})})]}),(0,t.jsxs)("div",{className:"ai-runcfg__sub",children:["Deploying to ",(0,t.jsx)("strong",{children:ey})," — market, prediction and entry point are already set from the AI signal."]}),(0,t.jsxs)("label",{className:"ai-runcfg__field",children:[(0,t.jsx)("span",{children:"Stake"}),(0,t.jsx)("input",{type:"number",min:"0",step:"0.01",value:ee,onChange:e=>es(e.target.value)})]}),(0,t.jsxs)("label",{className:"ai-runcfg__field",children:[(0,t.jsx)("span",{children:"Target Profit"}),(0,t.jsx)("input",{type:"number",min:"0",step:"0.01",value:ea,onChange:e=>et(e.target.value)})]}),(0,t.jsxs)("label",{className:"ai-runcfg__field",children:[(0,t.jsx)("span",{children:"Stop Loss"}),(0,t.jsx)("input",{type:"number",min:"0",step:"0.01",value:en,onChange:e=>ei(e.target.value)})]}),(0,t.jsxs)("div",{className:"ai-runcfg__mart",children:[(0,t.jsxs)("label",{className:"ai-runcfg__mart-toggle",children:[(0,t.jsx)("input",{type:"checkbox",checked:eo,onChange:e=>ec(e.target.checked)}),(0,t.jsx)("span",{children:"Martingale"})]}),(0,t.jsx)("input",{type:"number",min:"0",step:"0.1",value:el,disabled:!eo,onChange:e=>er(e.target.value),className:"ai-runcfg__mart-input"})]}),(0,t.jsx)("span",{className:"ai-runcfg__mart-hint",children:eo?"Stake multiplies by this factor after a loss.":"Off — martingale is reset to 0, stake stays flat after a loss."}),(0,t.jsx)("button",{className:"ai-runcfg__execute",disabled:"launching"===J,onClick:ex,children:"launching"===J?(0,t.jsxs)(t.Fragment,{children:[(0,t.jsx)(i.kr,{size:16,className:"ai-panel__spin"})," Launching…"]}):(0,t.jsxs)(t.Fragment,{children:[(0,t.jsx)(i.N3,{size:16})," Execute Trades"]})}),"no-ws"===J&&(0,t.jsxs)("div",{className:"ai-panel__run-err",children:["Open the ",(0,t.jsx)("strong",{children:"Bot Builder"})," tab once first, then try again."]}),"error"===J&&(0,t.jsx)("div",{className:"ai-panel__run-err",children:Y})]})})]})}},21878(e,s,a){a.d(s,{$k:()=>i,BJ:()=>r,EL:()=>d,_S:()=>o,bN:()=>l,uG:()=>c});let t=e=>({code:`1HZ${e}V`,label:`Volatility ${e} (1s) Index`,short:`V${e}s`,tickEvery:1}),n=e=>({code:`R_${e}`,label:`Volatility ${e} Index`,short:`V${e}`,tickEvery:2}),i=[t(10),t(25),t(50),t(75),t(100)],l=[n(10),n(25),n(50),n(75),n(100)],r=[...i,...l],o=Object.fromEntries(r.map(e=>[e.code,e.short])),c=Object.fromEntries(r.map(e=>[e.code,e.label])),d=r.map(e=>e.code)},89158(e,s,a){a.d(s,{Kq:()=>l,MJ:()=>p,N3:()=>o,RQ:()=>m,X:()=>i,e9:()=>r,kl:()=>d,kr:()=>n,nt:()=>c,yQ:()=>h});var t=a(65723);a(22155);let n=e=>{let{size:s=24,className:a,strokeWidth:n=2,color:i,style:l}=e;return(0,t.jsx)("svg",{xmlns:"http://www.w3.org/2000/svg",width:s,height:s,viewBox:"0 0 24 24",fill:"none",stroke:i??"currentColor",strokeWidth:n,strokeLinecap:"round",strokeLinejoin:"round",className:a,style:l,children:(0,t.jsx)("path",{d:"M21 12a9 9 0 1 1-6.219-8.56"})})},i=e=>{let{size:s=24,className:a,strokeWidth:n=2,color:i,style:l}=e;return(0,t.jsxs)("svg",{xmlns:"http://www.w3.org/2000/svg",width:s,height:s,viewBox:"0 0 24 24",fill:"none",stroke:i??"currentColor",strokeWidth:n,strokeLinecap:"round",strokeLinejoin:"round",className:a,style:l,children:[(0,t.jsx)("path",{d:"M18 6 6 18"}),(0,t.jsx)("path",{d:"m6 6 12 12"})]})},l=e=>{let{size:s=24,className:a,strokeWidth:n=2,color:i,style:l}=e;return(0,t.jsx)("svg",{xmlns:"http://www.w3.org/2000/svg",width:s,height:s,viewBox:"0 0 24 24",fill:"none",stroke:i??"currentColor",strokeWidth:n,strokeLinecap:"round",strokeLinejoin:"round",className:a,style:l,children:(0,t.jsx)("path",{d:"M4 14a1 1 0 0 1-.78-1.63l9.9-10.2a.5.5 0 0 1 .86.46l-1.92 6.02A1 1 0 0 0 13 10h7a1 1 0 0 1 .78 1.63l-9.9 10.2a.5.5 0 0 1-.86-.46l1.92-6.02A1 1 0 0 0 11 14z"})})},r=e=>{let{size:s=24,className:a,strokeWidth:n=2,color:i,style:l}=e;return(0,t.jsxs)("svg",{xmlns:"http://www.w3.org/2000/svg",width:s,height:s,viewBox:"0 0 24 24",fill:"none",stroke:i??"currentColor",strokeWidth:n,strokeLinecap:"round",strokeLinejoin:"round",className:a,style:l,children:[(0,t.jsx)("path",{d:"M3 12a9 9 0 0 1 9-9 9.75 9.75 0 0 1 6.74 2.74L21 8"}),(0,t.jsx)("path",{d:"M21 3v5h-5"}),(0,t.jsx)("path",{d:"M21 12a9 9 0 0 1-9 9 9.75 9.75 0 0 1-6.74-2.74L3 16"}),(0,t.jsx)("path",{d:"M8 16H3v5"})]})},o=e=>{let{size:s=24,className:a,strokeWidth:n=2,color:i,style:l}=e;return(0,t.jsxs)("svg",{xmlns:"http://www.w3.org/2000/svg",width:s,height:s,viewBox:"0 0 24 24",fill:"none",stroke:i??"currentColor",strokeWidth:n,strokeLinecap:"round",strokeLinejoin:"round",className:a,style:l,children:[(0,t.jsx)("circle",{cx:"12",cy:"12",r:"10"}),(0,t.jsx)("polygon",{points:"10 8 16 12 10 16 10 8"})]})},c=e=>{let{size:s=24,className:a,strokeWidth:n=2,color:i,style:l}=e;return(0,t.jsxs)("svg",{xmlns:"http://www.w3.org/2000/svg",width:s,height:s,viewBox:"0 0 24 24",fill:"none",stroke:i??"currentColor",strokeWidth:n,strokeLinecap:"round",strokeLinejoin:"round",className:a,style:l,children:[(0,t.jsx)("path",{d:"m22 7-8.5 8.5-5-5L2 17"}),(0,t.jsx)("path",{d:"M16 7h6v6"})]})},d=e=>{let{size:s=24,className:a,strokeWidth:n=2,color:i,style:l}=e;return(0,t.jsxs)("svg",{xmlns:"http://www.w3.org/2000/svg",width:s,height:s,viewBox:"0 0 24 24",fill:"none",stroke:i??"currentColor",strokeWidth:n,strokeLinecap:"round",strokeLinejoin:"round",className:a,style:l,children:[(0,t.jsx)("path",{d:"m22 17-8.5-8.5-5 5L2 7"}),(0,t.jsx)("path",{d:"M16 17h6v-6"})]})},h=e=>{let{size:s=24,className:a,strokeWidth:n=2,color:i,style:l}=e;return(0,t.jsx)("svg",{xmlns:"http://www.w3.org/2000/svg",width:s,height:s,viewBox:"0 0 24 24",fill:"none",stroke:i??"currentColor",strokeWidth:n,strokeLinecap:"round",strokeLinejoin:"round",className:a,style:l,children:(0,t.jsx)("path",{d:"m6 9 6 6 6-6"})})},p=e=>{let{size:s=24,className:a,strokeWidth:n=2,color:i,style:l}=e;return(0,t.jsxs)("svg",{xmlns:"http://www.w3.org/2000/svg",width:s,height:s,viewBox:"0 0 24 24",fill:"none",stroke:i??"currentColor",strokeWidth:n,strokeLinecap:"round",strokeLinejoin:"round",className:a,style:l,children:[(0,t.jsx)("path",{d:"M5 12.55a11 11 0 0 1 14.08 0"}),(0,t.jsx)("path",{d:"M1.42 9a16 16 0 0 1 21.16 0"}),(0,t.jsx)("path",{d:"M8.53 16.11a6 6 0 0 1 6.95 0"}),(0,t.jsx)("line",{x1:"12",x2:"12.01",y1:"20",y2:"20"})]})},m=e=>{let{size:s=24,className:a,strokeWidth:n=2,color:i,style:l}=e;return(0,t.jsxs)("svg",{xmlns:"http://www.w3.org/2000/svg",width:s,height:s,viewBox:"0 0 24 24",fill:"none",stroke:i??"currentColor",strokeWidth:n,strokeLinecap:"round",strokeLinejoin:"round",className:a,style:l,children:[(0,t.jsx)("path",{d:"M12 20h.01"}),(0,t.jsx)("path",{d:"M8.5 16.5a5 5 0 0 1 7 0"}),(0,t.jsx)("path",{d:"M5 12.5a9.8 9.8 0 0 1 5.17-2.56"}),(0,t.jsx)("path",{d:"m1.5 1.5 21 21"}),(0,t.jsx)("path",{d:"M13.91 9.98a10 10 0 0 1 6.59 3.52"})]})}}}]);